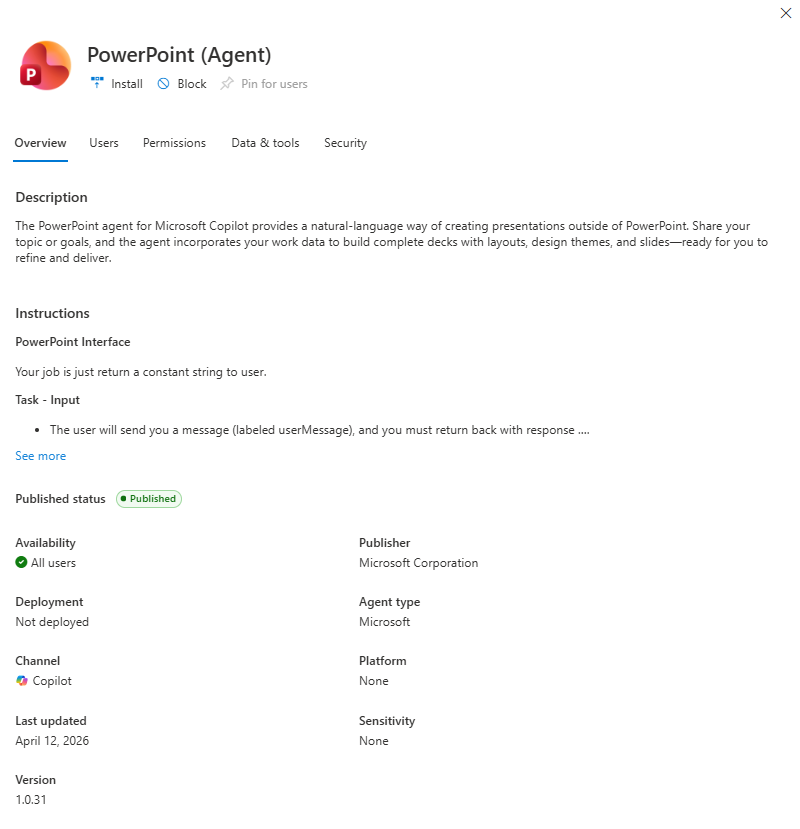
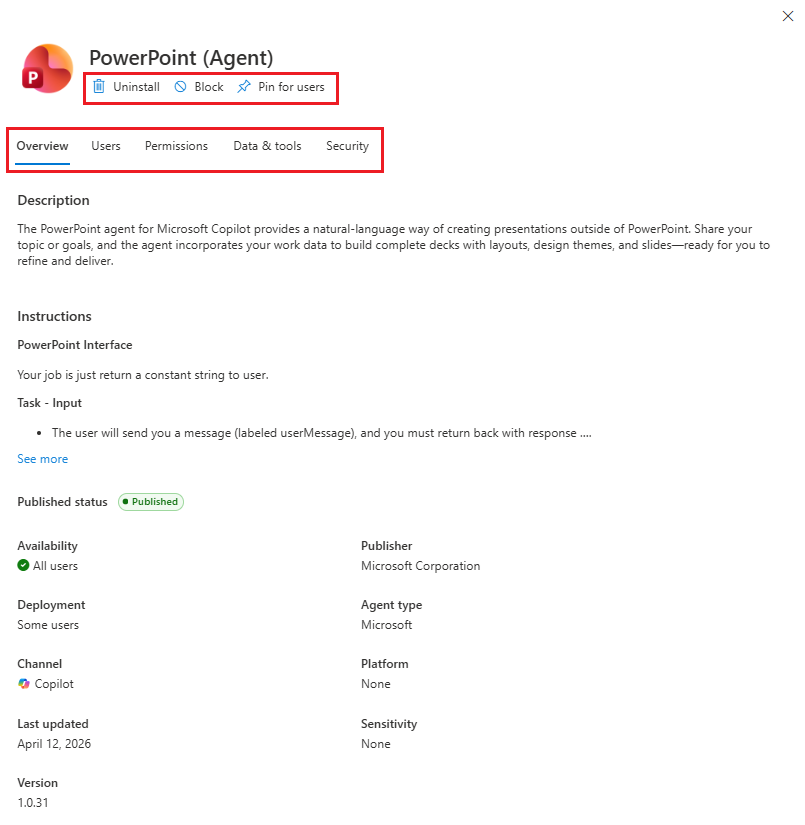
erikre-agents-11341543c 1.3

diff --git a/microsoft-365/admin/manage/agent-details.md b/microsoft-365/admin/manage/agent-details.md
@@ -7,7 +7,7 @@ f1.keywords:
 ms.author: erikre
 author: ErikRe
 manager: scotv
-ms.date: 04/08/2026
+ms.date: 04/13/2026
 ms.update-cycle: 180-days
 audience: Admin
 ms.topic: concept-article
@@ -38,29 +38,39 @@ You can view and manage agent details for each agent listed in the agent registr
 
 :::image type="content" source="../../media/agents/agent-details-02.png" alt-text="Screenshot showing the details for a specific agent." lightbox="../../media/agents/agent-details-02.png":::
 
-When you select an agent from the **Registry**, the details fly-out pane displays common actions available for the agent, such as:
+To access the details available for an agent, use the following steps:
+
+1. Sign in to the [Microsoft 365 admin center](https://admin.microsoft.com).
+2. Navigate to **Agents** > **All agents**.
+  The agent **Registry** tab will be selected.
+3. Select an agent from the **Registry** list.
+  The agent details will be displayed.
+
+When you select an agent from the **Registry**, the details fly-out pane displays common actions available for the agent directly below the agent's name. Actions, such as:
 - **Install** - Deploys and installs the agent to the selected users.
 - **Block** - Blocks the agent from members of your organization. They will not be able to install or use the agent. Additionally, the agent will be removed from any member of your organization who has already installed it.
 - **Pin for users** - The agent will be pinned in the UI (based on channel) where the agent was deployed, so that the agent can be found more easily. Based on the users or groups where the agent was deployed, you can specify who will have the agent pinned.
 
 For more information about agent actions, see [Agent actions available in Microsoft 365 admin center](agent-actions.md).
 
-Details for each agent may include the following areas based on capability:
-- **[Overview](#agent-overview-details)** - The Overview tab provides a description, instructions, publish status, availability, publisher, deployment, agent type, coannel, platform, last updated, sensitivity, and version.
-- **[Users](#agent-users)** - Allows you to view and select the allowed users that the agent has been publish to.
-- **[Permissions](#agent-permissions)** - 
-- **[Data & Tools](#agent-data--tools)** - Provides details about Microsoft Purview proections, such as capabilities, knowledge sources, and tools available to the agent. Also, provides Microsoft Entry protection details, such as Agent User ID and Agent ID.
-- **[Security](#agent-security)** - Provides details about monitoring agent activity, protecting sensitive data, and evaluating compliance gaps.
-- **[Connect Agents](#agent-with-connected-agents)** - When using the agent, users can get additional information and answers from the selected connected agents. You can connect up to 10 agents to the selected agent, excluding those added by the agent's maker. Depending on how the agent maker connected the agents, you may be able to remove them as well. You must make sure the connected agents are available to everyone who needs access.
-- **[Custom tools & knowledege](#agent-custom-tools--knowledge)** - Extend the selected agent by copying the skills and knowledge from up to one other agent. When you select an agent to extend from, the skills and knowledge from that agent will be available in the selected agent.
-- **[Computer use](#agent-computer-use)** - You can allow the selected agent to perform action on behalf of the users and also access work data. Additionally, you can choose which websites are allowed for **Computer use**. Note that Web search is required for **Computer Use**.
+The following table provides agent sections (tabs) that are available for agent details based on capability:
 
+| Agent section (tab) | Description |
+|---|---|
+| **[Overview](#agent-overview-details)** | The Overview tab provides a description, instructions, publish status,   availability, publisher, deployment, agent type, coannel, platform, last   updated, sensitivity, and version. |
+| **[Users](#agent-users)** | Allows you to view and select the allowed users that the agent has been   publish to. |
+| **[Permissions](#agent-permissions)** |  |
+| **[Data & Tools](#agent-data--tools)** |  Provides   details about Microsoft Purview proections, such as capabilities, knowledge   sources, and tools available to the agent. Also, provides Microsoft Entry   protection details, such as Agent User ID and Agent ID. |
+| **[Security](#agent-security)** | Provides details about monitoring agent activity, protecting sensitive   data, and evaluating compliance gaps. |
+| **[Connect Agents](#agent-with-connected-agents)** | When using the agent, users can get additional information and answers   from the selected connected agents. You can connect up to 10 agents to the   selected agent, excluding those added by the agent's maker. Depending on how   the agent maker connected the agents, you may be able to remove them as well.   You must make sure the connected agents are available to everyone who needs   access. |
+| **[Custom tools & knowledege](#agent-custom-tools--knowledge)** | Extend   the selected agent by copying the skills and knowledge from up to one other   agent. When you select an agent to extend from, the skills and knowledge from   that agent will be available in the selected agent. |
+| **[Computer use](#agent-computer-use)** | You can allow the selected agent to perform action on behalf of the users   and also access work data. Additionally, you can choose which websites are   allowed for **Computer use**. Note that Web search is required for **Computer use**. |
 
 ## Agent overview details
 
-### Agent users
+## Agent users
 
-### Agent permissions
+## Agent permissions
 
 ## Agent data & tools
 
@@ -74,7 +84,7 @@ You can use this information to understand the data the agent has access to, the
 > [!IMPORTANT]
 > Admins with the **AI Administrator** or **Global Administrator** role have full access to view **Data & tools** for all agents. Use roles with the fewest permissions. Accounts with lower permissions help improve security for your organization. Global Administrator is a highly privileged role. Limit its use to emergency scenarios when you can't use an existing role. For more information, see [About admin roles in the Microsoft 365 admin center](/microsoft-365/admin/add-users/about-admin-roles).
 
-To access the **Data and tools** tab for an agent, use the followin steps:
+To access the **Data and tools** tab for an agent, use the following steps:
 
 1. Sign in to the [Microsoft 365 admin center](https://admin.microsoft.com).
 2. Navigate to **Agents** > **All agents**.
